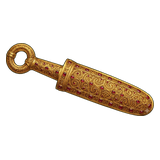
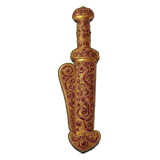
유물 셋 다시 — 계림로 보검(석류석 소용돌이 · 휜 손잡이) · 농경문 청동기(위에 네모 구멍 줄 · 밭 가는 사람 선각) · 잔무늬거울(세 겹 고리에 잔줄 · 꼭지 둘) — 실물 생김을 더 자세히 적어
Claude-Session: https://claude.ai/code/session_01EHNWQSnpqx2ZUW8bnuUbTB

Changed region(s): [[0.0312, 0.0312, 0.9688, 0.9688]]

diff --git a/docs/realm/HERO-GROWTH.md b/docs/realm/HERO-GROWTH.md
@@ -59,7 +59,7 @@
 | 진묘수 (무덤 지킴이) | 백제 · 무령왕릉 | 보배 | 이 장수가 지키는 고을은 첫 공격을 한 번 막는다 |
 | 금동신발 | 백제·마한 · 나주 정촌 | 귀함 | 공작 들킬 몫 −30% |
 
-그림 (10-26 받음 · 제미나이 Argon · `public/realm/relic/<id>.png` 160 칸 투명): mirror 잔무늬거울 · eightbell 팔주령 · polebell 간두령 · farmplaque 농경문 청동기 · gogok 굽은옥 · beads 유리구슬 목걸이 · ingots 덩이쇠 · duck 오리모양 토기 · wheelcup 수레바퀴모양 토기 · rider 기마인물형 토기 · horncup 말머리 뿔잔 · cheonma 천마도 말다래 · crown 신라 금관 · goldbelt 금제 허리띠 · earring 굵은고리 금귀걸이 · dagger 계림로 보검 · houbowl 호우명 그릇 · incense 금동대향로 · crownflame 무령왕 관꾸미개 · guardian 진묘수 · shoes 금동신발 · bipa 비파형동검(고조선) · sehyeong 세형동검 · brush 창원 다호리 붓 · 상자 chest-common · chest-rare · chest-legend · loot 쌓인 껴묻거리. 10-26 오후 형: "한 번에 만들지 말고 하나씩 · 중국풍 묻거나 왜곡되면 엄청난 미움" → 유물마다 새 대화로 실물 생김을 적어 다시 받았다. 더 손볼 것: 계림로 보검(실물의 휘감는 석류석 무늬·귀 모양 손잡이가 덜 산다) · 비파형동검(가운데 볼록 마디와 양날 돌기가 약하다) · 농경문 청동기(실물 꼴과 다르다) · 잔무늬거울(삼각 잔무늬 대신 동심원).
+그림 (10-26 받음 · 제미나이 Argon · `public/realm/relic/<id>.png` 160 칸 투명): mirror 잔무늬거울 · eightbell 팔주령 · polebell 간두령 · farmplaque 농경문 청동기 · gogok 굽은옥 · beads 유리구슬 목걸이 · ingots 덩이쇠 · duck 오리모양 토기 · wheelcup 수레바퀴모양 토기 · rider 기마인물형 토기 · horncup 말머리 뿔잔 · cheonma 천마도 말다래 · crown 신라 금관 · goldbelt 금제 허리띠 · earring 굵은고리 금귀걸이 · dagger 계림로 보검 · houbowl 호우명 그릇 · incense 금동대향로 · crownflame 무령왕 관꾸미개 · guardian 진묘수 · shoes 금동신발 · bipa 비파형동검(고조선) · sehyeong 세형동검 · brush 창원 다호리 붓 · 상자 chest-common · chest-rare · chest-legend · loot 쌓인 껴묻거리. 10-26 오후 형: "한 번에 만들지 말고 하나씩 · 중국풍 묻거나 왜곡되면 엄청난 미움" → 유물마다 새 대화로 실물 생김을 적어 다시 받았다. 덜 닮았던 넷(계림로 보검 · 비파형동검 · 농경문 청동기 · 잔무늬거울)은 생김을 더 자세히 적어 다시 받았다.
 
 ### C. 판과 판 사이 — 단련터 (프린세스메이커 자리)
 
